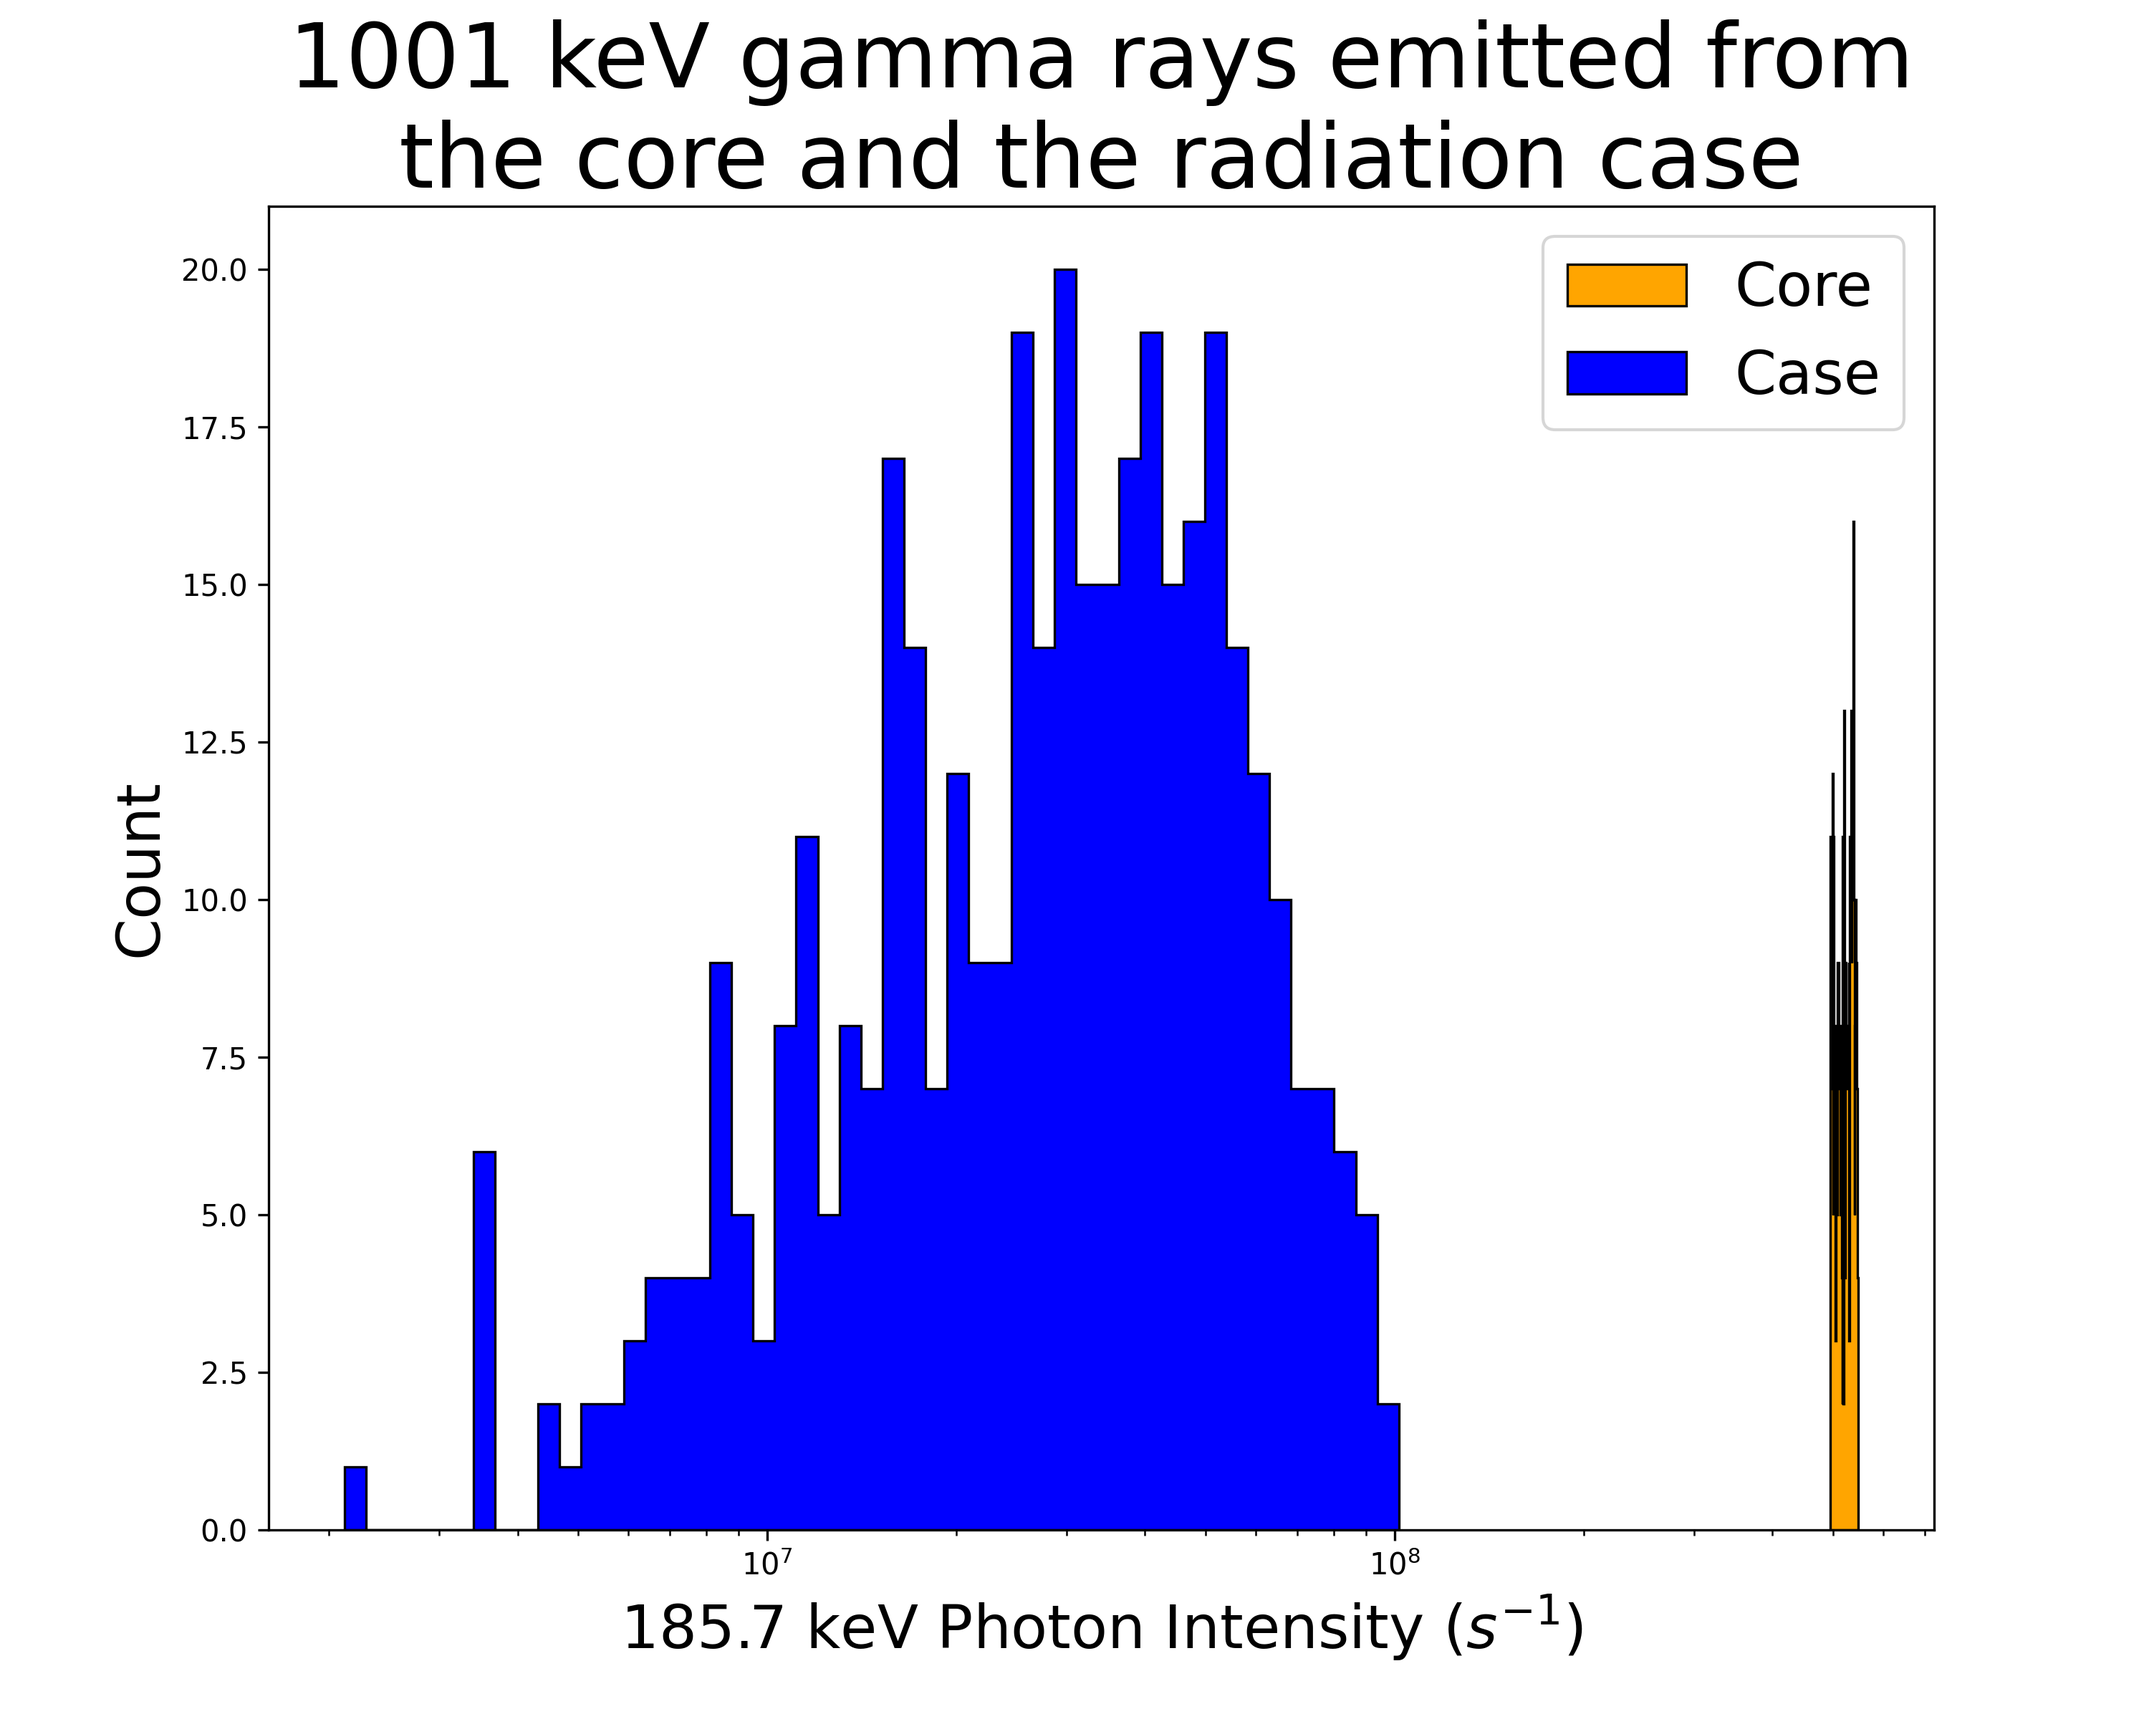
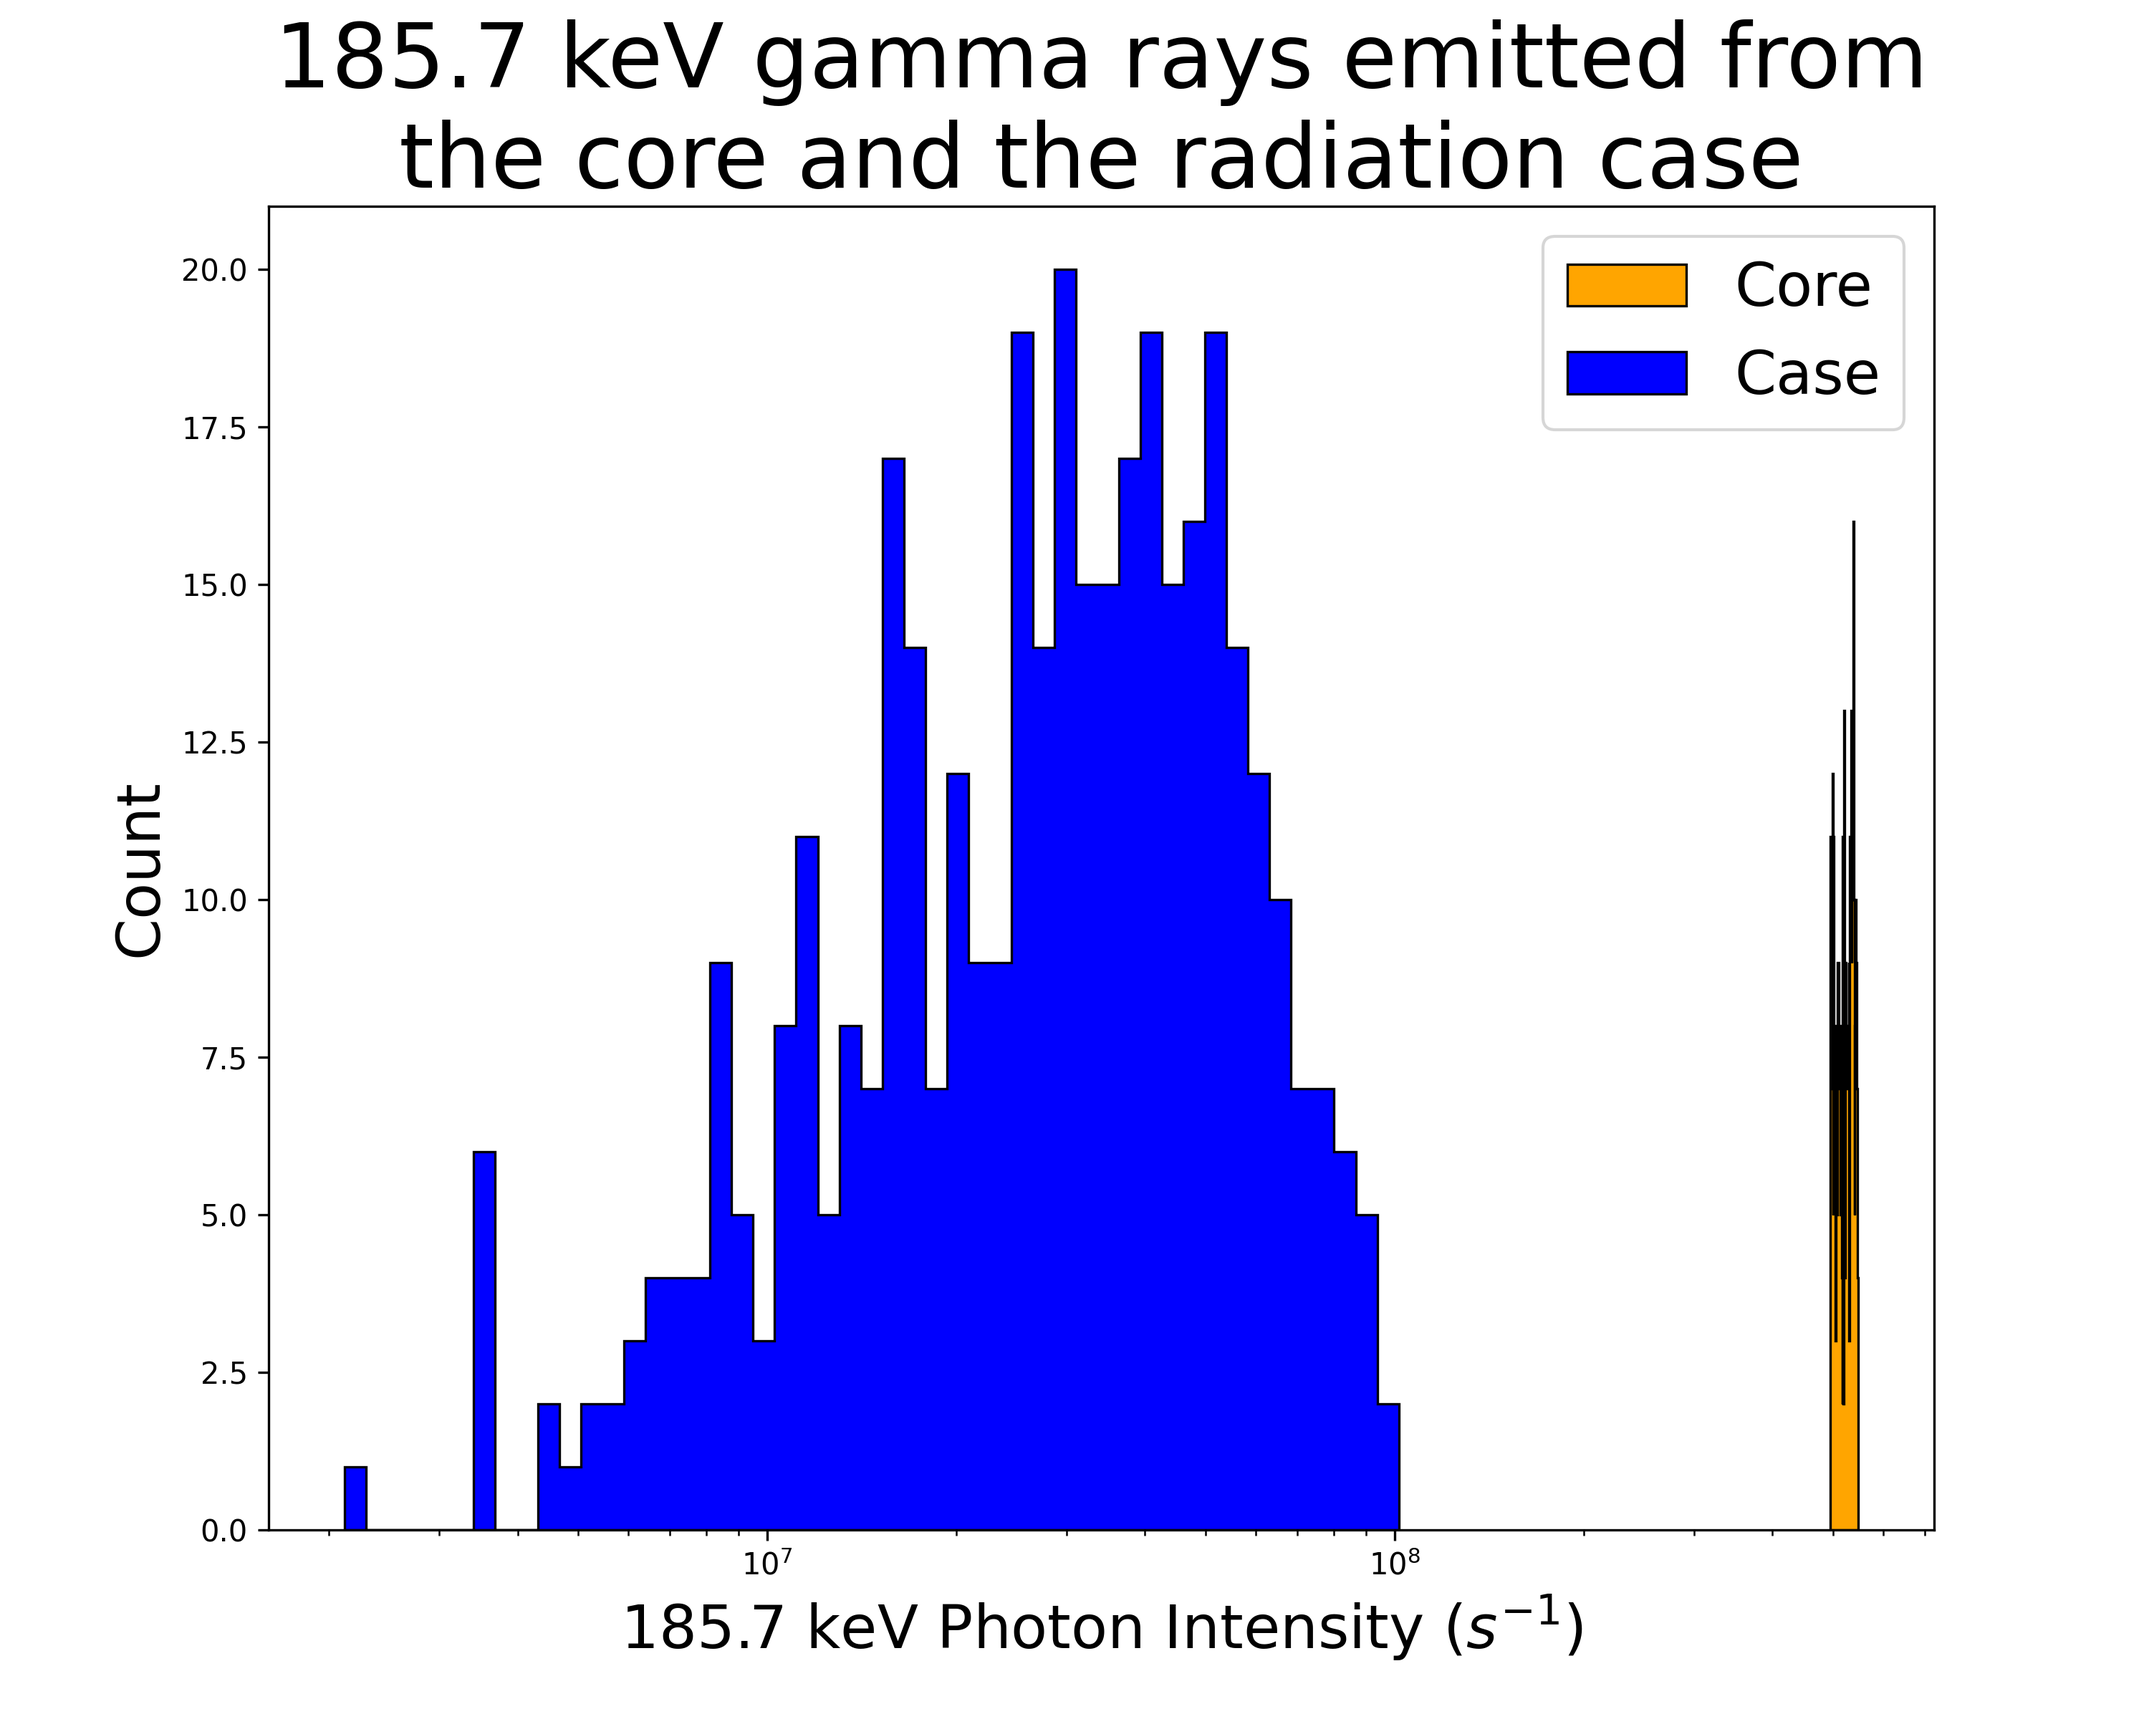
updated plot

Changed region(s): [[0.124, 0.0, 0.899, 0.0625]]

diff --git a/plot_codes/plot_emission_hist.py b/plot_codes/plot_emission_hist.py
@@ -22,7 +22,7 @@ def core_case_emission_detection_plot(metadata):
 
 
     plt.figure(figsize=(10, 8))
-    plt.title("1001 keV gamma rays emitted from\nthe core and the radiation case", fontsize=30)
+    plt.title("185.7 keV gamma rays emitted from\nthe core and the radiation case", fontsize=30)
     photon_emission_core_185 = np.array(photon_emission_core_185)
     photon_emission_case_185 = np.array(photon_emission_case_185)
 
